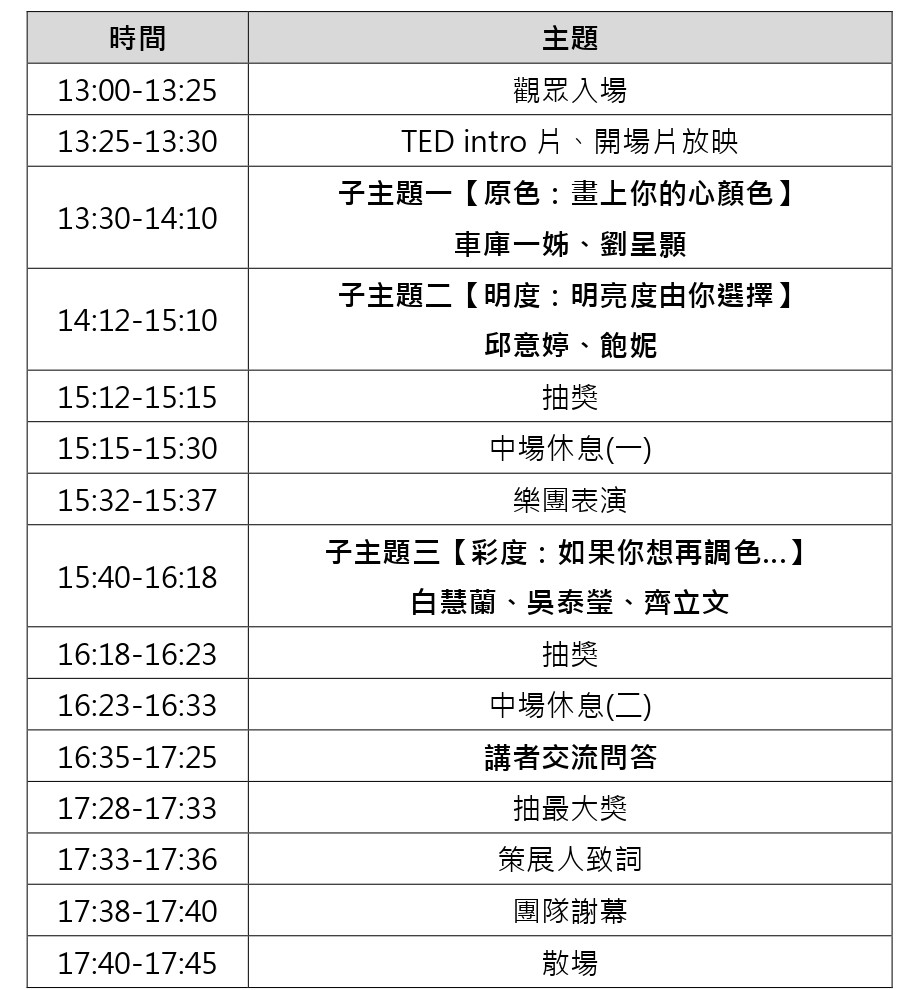
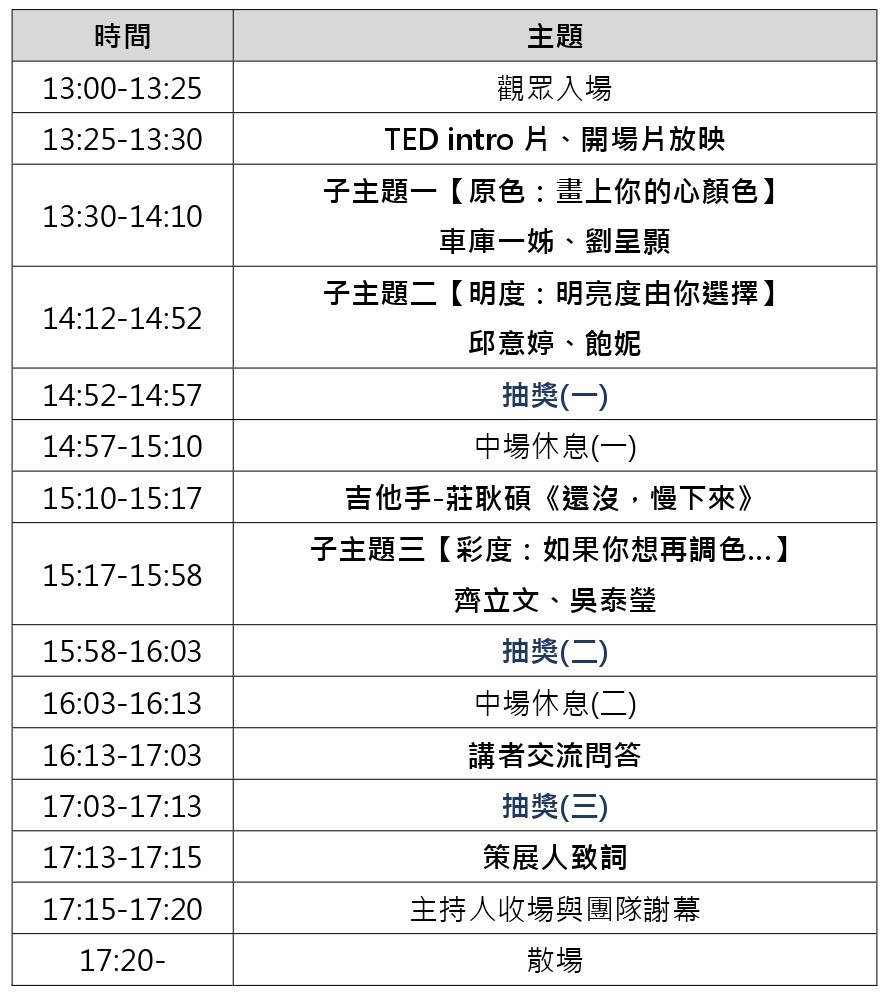
流程表更新

Changed region(s): [[0.0, 0.0, 1.0, 1.0]]

diff --git a/index.html b/index.html
@@ -327,26 +327,12 @@
               <div class="col-xl-4 col-md-6">
                 <div class="speaker-item">
                   <div class="speaker-img">
-                    <img src="assets\images\白慧蘭.png" alt=""/>
-                  </div>
-                  <h2 class="title">白慧蘭</h2>
-                  <p>
-                    職稱：工作生活家社群主理人 / 職場神獸養成記作者</br>
-                    網址：
-                    <a href="https://paiforyou.com">首頁 - 白白給你 (paiforyou.com)</a>
-                  </p>
-                </div>
-              </div>
-              <!-- End post item -->
-              <div class="col-xl-4 col-md-6">
-                <div class="speaker-item">
-                  <div class="speaker-img">
                     <img src="assets\images\飽妮.png" alt=""/>
                   </div>
                   <h2 class="title">飽妮</h2>
                   <p>
-                    飽妮於2017年加入youtube成為一名youtuber，在這6年的時間裡發表許多影片，其中最多也最為人熟知的便是影評，不管是迪士尼抑或是美劇、台劇，多面向的劇集都有所觸及。除此之外，飽妮也分享自己對於不同事件或主題的看法，向大眾提出屬於自己的見解。</br></br>
-                    職稱：Youtuber</br>
+                    飽妮於2017年加入YouTube成為一名YouTuber，在這6年的時間裡發表許多影片，其中最多也最為人熟知的便是影評，不管是迪士尼抑或是美劇、台劇，多面向的劇集都有所觸及。除此之外，飽妮也分享自己對於不同事件或主題的看法，向大眾提出屬於自己的見解。</br></br>
+                    職稱：YouTuber</br>
                     網址：
                     <a href="https://www.youtube.com/@user-ib1qh4rg2d">YouTube</a>、
                     <a href="https://www.instagram.com/bonibaobao/">Instagram</a>
